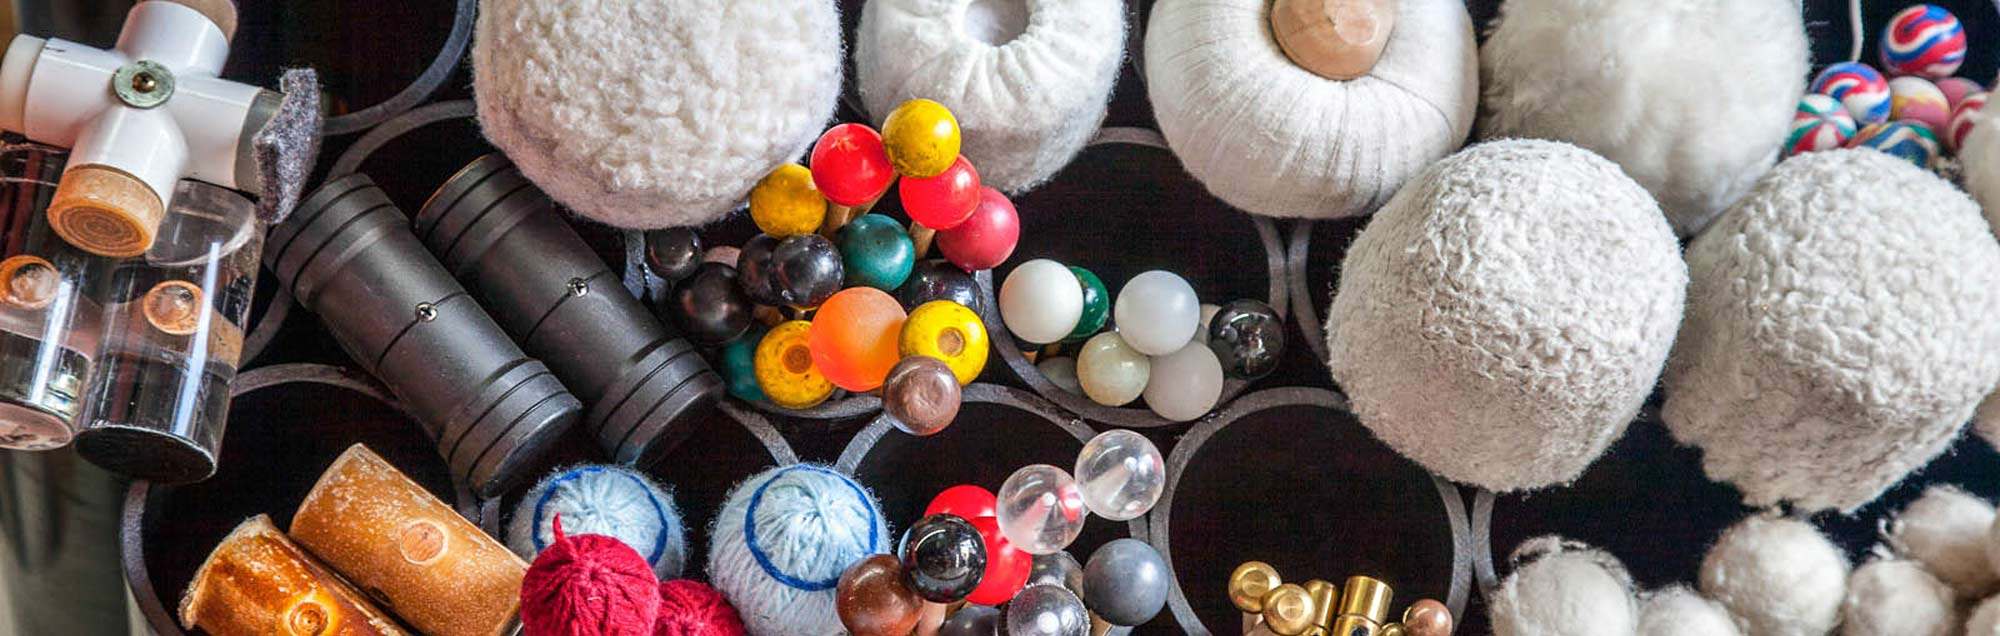
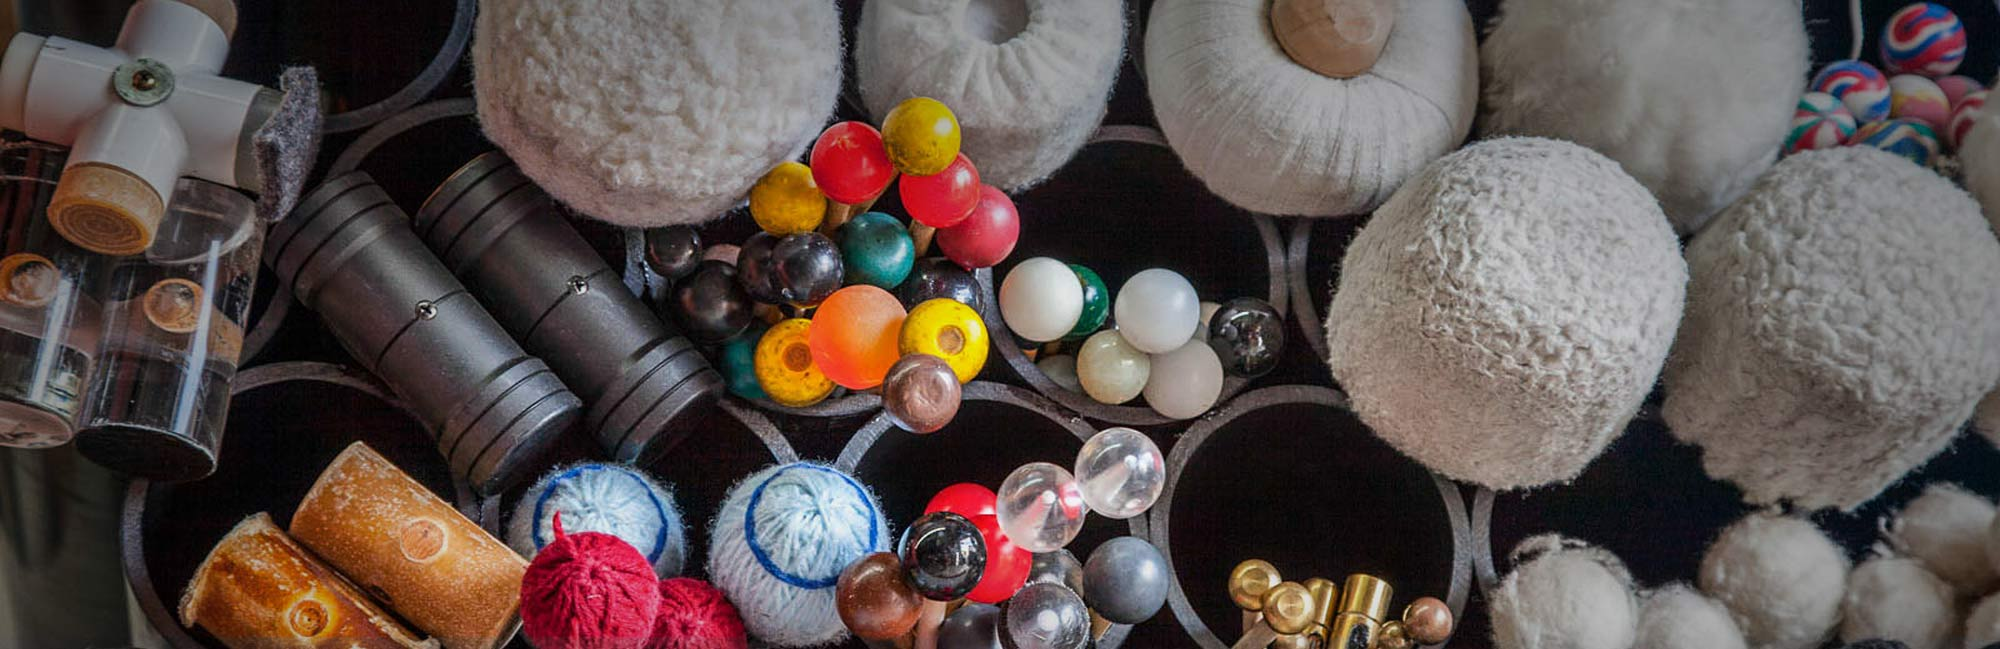
New header image, visual tweaks

diff --git a/public/less/main.less b/public/less/main.less
@@ -200,7 +200,7 @@ input, textarea, select {
     z-index: 51;
     position: fixed;
     width: 100%;
-    background-color: rgba(0, 0, 0, 0.25);
+    /*background-color: rgba(0, 0, 0, 0.25);*/
   }
   .logo {
     a {
@@ -898,8 +898,6 @@ body {
       margin-top: 5px;
       background: url(/images/layout/lapr-tiny.png);
     }
-    .site-header-inner {
-    }
   }
   body.index {
     position: static;
@@ -908,10 +906,6 @@ body {
       &:before {
         position: absolute;
         overflow-y: hidden;
-      }
-      .site-header-inner {
-        /*position: static;
-        overflow-y: hidden;*/
       }
     }
     .news {
@@ -933,7 +927,7 @@ body {
     padding-top: 62px;
     .site-header {
       .site-header-inner {
-        background-color: @bg-color;
+        /*background-color: @bg-color;*/
       }
       &:before {
         display: none;
